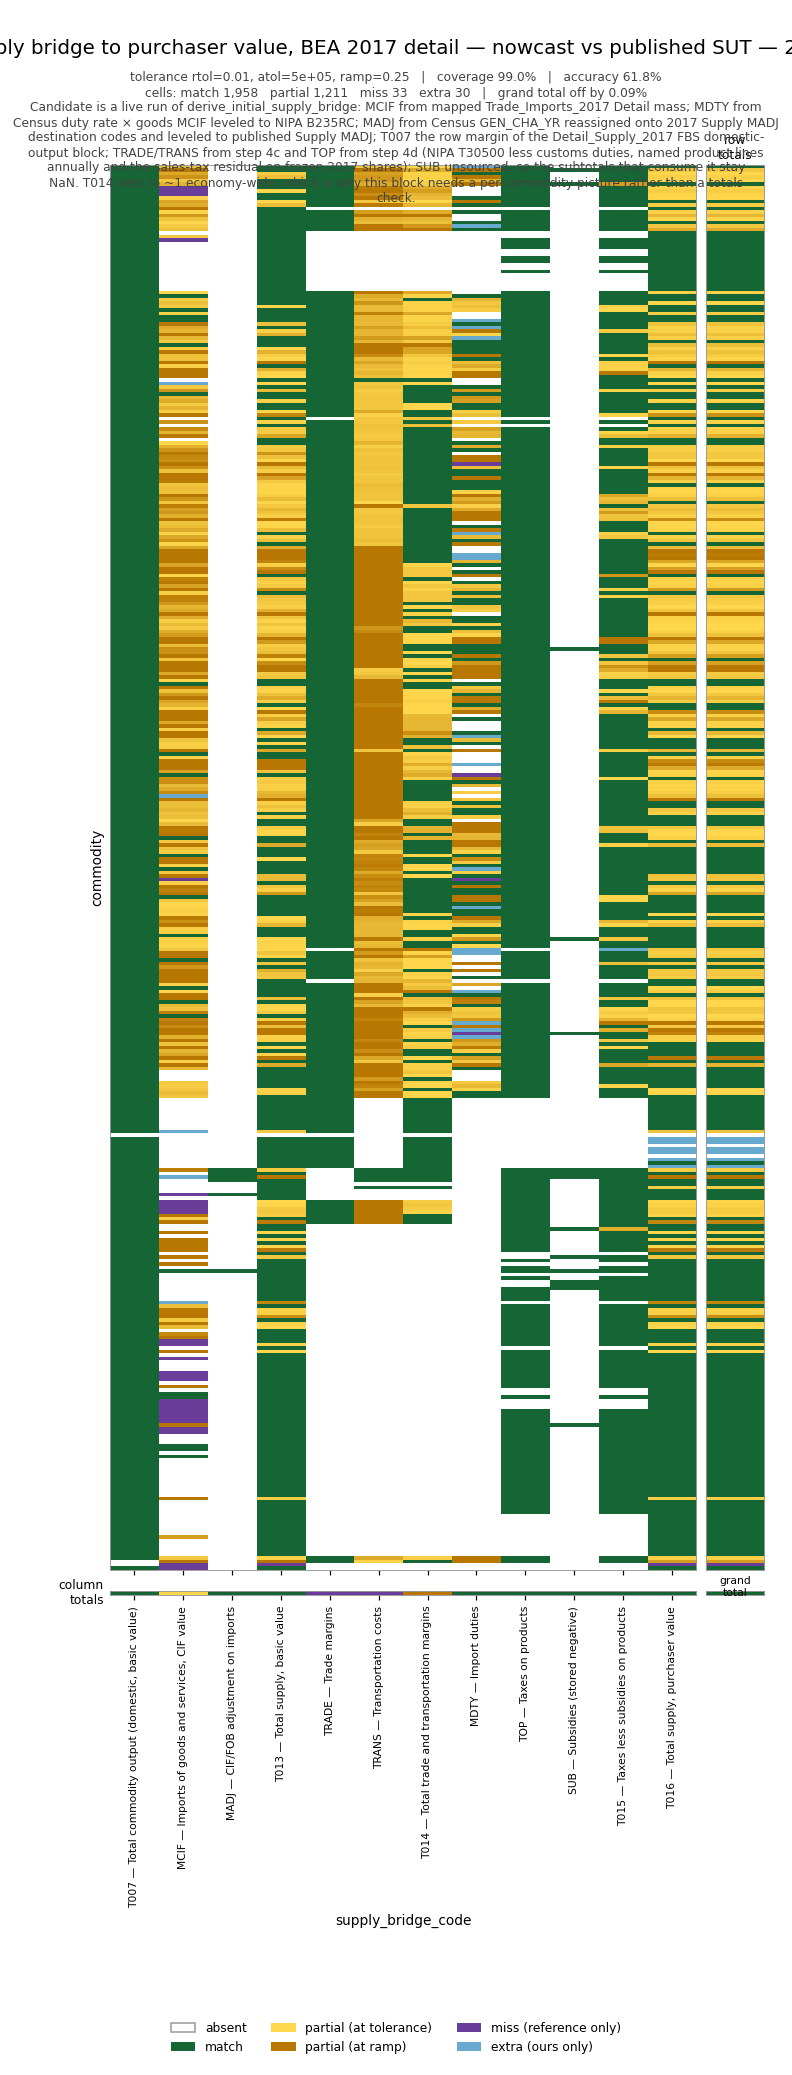
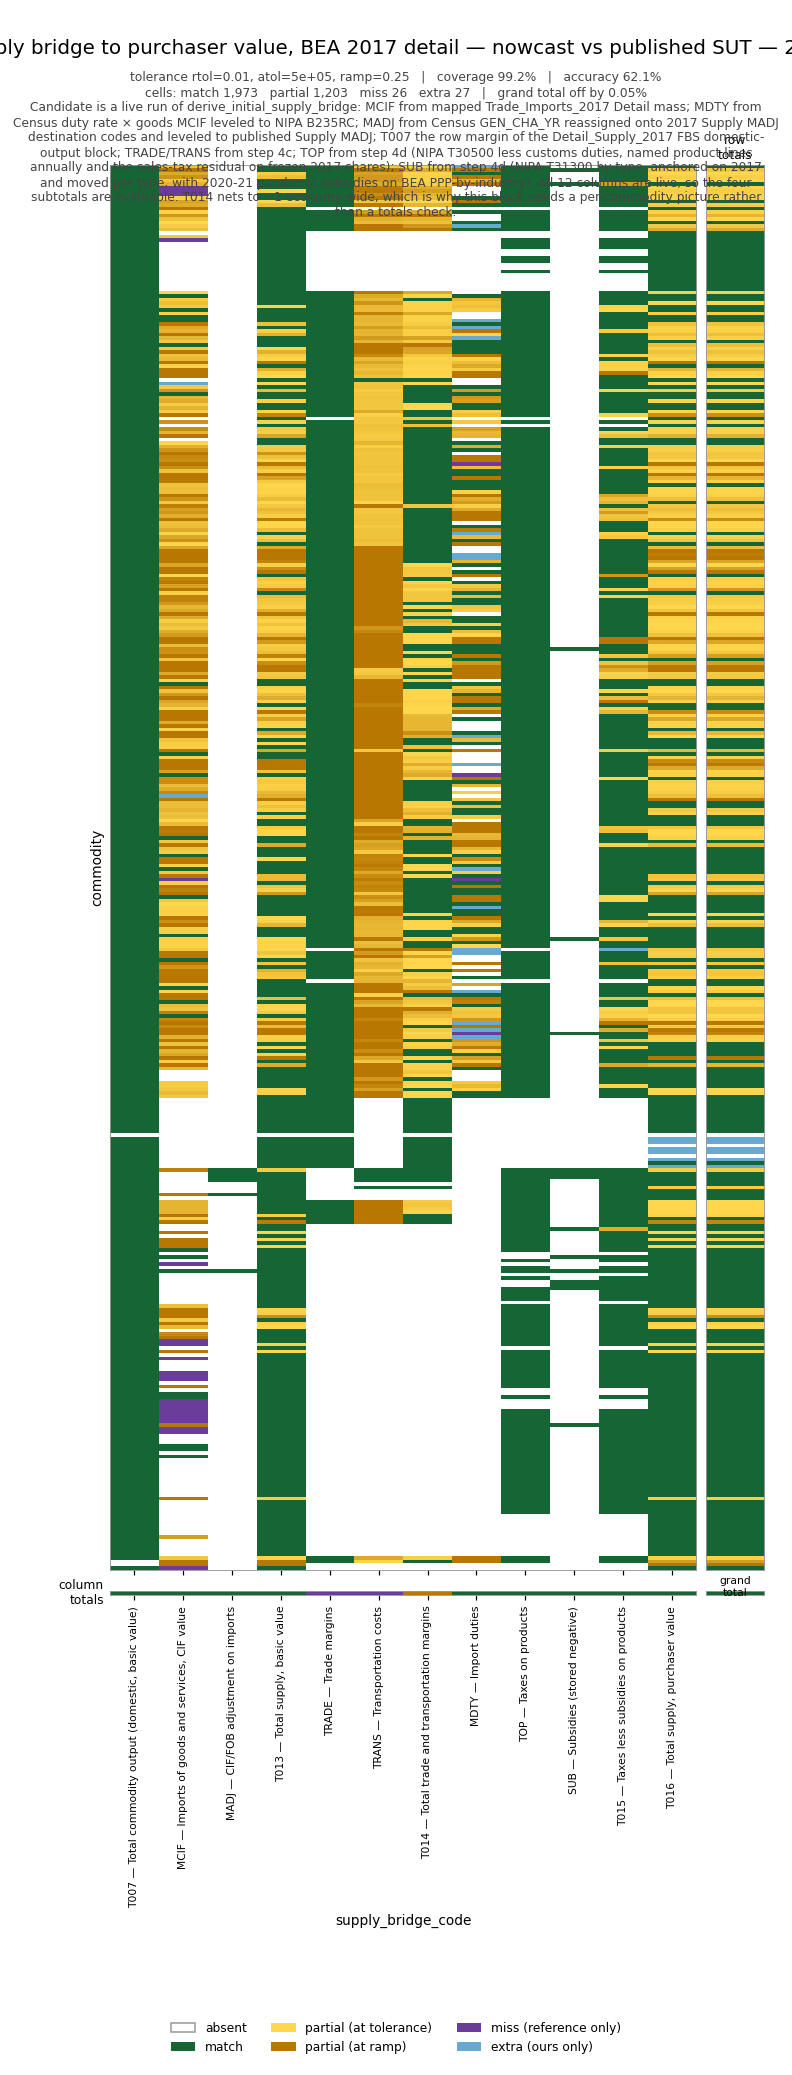
Refresh the plan docs for the merged margins, TOP and trade work
Docs only. The plan and progress report predated #733/#734 and were describing
a Supply bridge that no longer exists.

Supply column table, corrected against a live coverage run rather than from
memory: eight of the twelve columns now run 2017-2024, and only TRADE, TRANS
and therefore T014/T016 stop at 2023. MCIF, MADJ and MDTY were still listed as
"2017 candidate" and have been annual since #730. TRANS was "2017-2022" and now
reaches 2023 from AIES.

TOP's residual is no longer frozen, which the plan asserted in two places. The
purchaser-price base did not have to wait for Step 5 as the plan predicted - it
is assembled from the bridge's own components, and is not circular because TOP
sits in T015 and is excluded from its own base. Recorded with what it buys
(S00402's 174,312 base, the 0.939-1.008 rescale) and what it costs: TOP now
depends on margin coverage, so 2024 holds 2023's shares.

Step 1: F04000 was described as all-zero for 2018-2024 and has been annual since
#730 (2,211bn to 3,139bn). F03000 really is still 2017-only, so the two are now
stated separately instead of together.

Numbers re-measured rather than edited by hand. Steps 1 and 4 re-run, and the
embedded images regenerated with them: supply bridge coverage 99.0% to 99.2%,
accuracy 61.8% to 62.1%, grand total error 0.092% to 0.048%. That improvement is
not Step 4a - it is the Trade FBSs rebuilt on the NAICS-2022 goods Crosswalk,
[…]

diff --git a/bedrock/analysis/nowcasting/plan.md b/bedrock/analysis/nowcasting/plan.md
@@ -253,17 +253,26 @@ shares the aggregator machinery with Decision 3's aggregate constraints.
 
 ### SUT Supply — every column
 
-**Every column now has a candidate.** `MCIF`, `MADJ` and `MDTY` are 2017-only; `T007`, `TRADE`, `TRANS`, `TOP` and `SUB` are multi-year. As of 2026-08-22 the 2017 block scores 99.0% coverage and 0.092% on the grand total, and all four subtotals are evaluable.
+**Every column now has a candidate, and the block is complete and evaluable 2017-2023.** As of
+2026-08-26 **eight of the twelve columns run 2017-2024** — `T007`, `MCIF`, `MADJ`, `T013`, `MDTY`,
+`TOP`, `SUB`, `T015` — and only `TRADE`, `TRANS` and therefore `T014`/`T016` stop at 2023. The 2017
+block scores **99.2% coverage and 0.048% on the grand total** (was 99.0% / 0.092% before the
+2026-08-26 re-run), and all four subtotals are evaluable.
+
+⚠ **2024 is a release date, not an engineering gap.** `timeseries/aies/basic` returns 204 for 2024
+and `aies/miscsector` 400. Truck and pipeline are 79.7% of `TRANS`, so no partial fill is honest —
+rail reaches 2024 on STB and water/air on FAF, but that is 20.3% of the column. There is no second
+source to try; the fix is the next AIES release, not more sourcing work.
 
 | Column | What it is | Candidate source | Status |
 |---|---|---|---|
 | cells / `T007` | Domestic output, commodity × industry, basic value | Nowcast gross industry output (`derived_gross_industry_output.py`) × commodity mix (port from `CalculateIntermediateUseAndCommodityMix.R`, #497) | ❌ **unsourced method** |
-| `MCIF` | Imports, c.i.f. | Census goods **CIF** (`GEN_CIF_YR`) + BEA `IntlServTrade` — §Trade data below | ⏳ **2017 candidate** ([#528](https://github.com/cornerstone-data/bedrock/issues/528) / [#622](https://github.com/cornerstone-data/bedrock/pull/622) [#623](https://github.com/cornerstone-data/bedrock/pull/623) [#642](https://github.com/cornerstone-data/bedrock/pull/642)) — Trade_Imports FBS on `MCIF`; overlay is mapped Detail mass (ITA scale helper unused, #647) |
-| `MADJ` | Import adjustment (c.i.f./f.o.b.) | Census `GEN_CHA_YR` mapped to Detail, reassigned onto 2017 Supply `MADJ` destination codes (signed shares), leveled to published Supply `MADJ` (`madj_detail_usd`) | ⏳ **2017 candidate** — charges + destination reassignment in `derive_initial_supply_bridge` |
-| `MDTY` | Import duties | Effective duty rate from Census `CAL_DUT_YR ÷` customs value (NAICS-6, same endpoint as `MCIF`) × NIPA T30500 customs-duties level — §`MDTY` below | ⏳ **2017 candidate** — `mdty_detail_usd` in `derive_initial_supply_bridge` |
+| `MCIF` | Imports, c.i.f. | Census goods **CIF** (`GEN_CIF_YR`) + BEA `IntlServTrade` — §Trade data below | ⏳ **2017-2024 candidate** ([#528](https://github.com/cornerstone-data/bedrock/issues/528), extended by [#730](https://github.com/cornerstone-data/bedrock/issues/730)) — Trade_Imports FBS on `MCIF`; overlay is mapped Detail mass (ITA scale helper unused, #647). 1:m import rows still split on **frozen 2017 `MCIF`** ([#729](https://github.com/cornerstone-data/bedrock/issues/729)) |
+| `MADJ` | Import adjustment (c.i.f./f.o.b.) | Census `GEN_CHA_YR` mapped to Detail, reassigned onto 2017 Supply `MADJ` destination codes (signed shares), leveled to published Supply `MADJ` (`madj_detail_usd`) | ⏳ **2017-2024 candidate** — charges + destination reassignment in `derive_initial_supply_bridge`. 2017 ties to published; later years carry that year's mapped charge total with the published sign |
+| `MDTY` | Import duties | Effective duty rate from Census `CAL_DUT_YR ÷` customs value (NAICS-6, same endpoint as `MCIF`) × NIPA T30500 customs-duties level — §`MDTY` below | ⏳ **2017-2024 candidate** — `mdty_detail_usd` in `derive_initial_supply_bridge`. ⚠ Calculated Census duty ≠ collected duty in the tariff era, which is why the national sum is leveled to `B235RC` |
 | `TRADE` | Wholesale + retail margins, by commodity | 2017 published column moved by the Census wholesale/retail gross margin (`nowcast_trade_margins.py`, #612/#613) — **not** an aggregate of the nowcast Margins dataset | ⏳ **2017-2023 candidate** — receiving split is the **frozen 2017 mix** |
-| `TRANS` | Transportation margins, by commodity | Per-mode allocation of observed annual freight revenue (`Margins_Transport_<year>` FBS, #611) | ⏳ **2017-2022 candidate** — within-group weight frozen at 2017 (#672) |
-| `TOP` | Taxes on products | NIPA T30500 less customs duties, annually; ten **named NIPA product lines** placed on their own commodities (29.8% of the column) and the sales-tax residual on frozen 2017 shares (`nowcast_product_taxes.py`, #580) | ⏳ **2017-2024 candidate** — total observed to $1M; residual split frozen |
+| `TRANS` | Transportation margins, by commodity | Per-mode allocation of observed annual freight revenue (`nowcast_transport_margins.py`, #611). Truck from AIES `miscsector` `RCPT_MOTR_*_DVAL`; pipeline and water/air from `aies/basic`; rail from STB | ⏳ **2017-2023 candidate** — 2023 now sourced from **AIES**, which continues SAS Table 8 under the same eleven group names, so `Crosswalk_SAS_Group_to_BEA_2017.csv` joins unchanged. Within-group weight still frozen at 2017 (#672). **2024 waits on AIES publishing** |
+| `TOP` | Taxes on products | NIPA T30500 less customs duties, annually; ten **named NIPA product lines** placed on their own commodities (29.8% of the column) and the sales-tax residual on a **purchaser-price base** `T013 + T014` (`nowcast_product_taxes.py`, #580) | ⏳ **2017-2024 candidate** — total observed to $1M. ✅ **The residual is no longer frozen**: sourcing `TRADE`/`TRANS` (#611) gave the other 70% of the column an annual base, so `TOP` now **depends on margin coverage** and 2024 holds 2023's shares rather than reverting to 2017 |
 | `SUB` | Subsidies (stored negative) | NIPA T31300 annually; each commodity anchored on its published 2017 value and moved by its own NIPA **type line**, with 2020-21 `other` on BEA's published PPP-by-industry allocation (`nowcast_subsidies.py`, #580) | ⏳ **2017-2024 candidate** — 2022-24 `other` still on the anchor ([#689](https://github.com/cornerstone-data/bedrock/issues/689)) |
 
 **`TRADE`/`TRANS` and the Margins deliverable sit at two different levels of detail — build the finer
@@ -660,9 +669,12 @@ are 1B because they are not domestic; inventories are 1C.
   across all seventeen NIPA columns in 2017: they receive no final domestic use at all. Zero and
   absent are the same fact, but only one of them survives a join. Hoisted; 2017 is unchanged to the
   cent and 2018–2024 are now (402, 19).
-  ⚠ `F03000` and `F04000` remain **all-zero for 2018–2024** — 1B and 1C are built for 2017 only, as
-  is the `S00900`/`F04000` rest-of-world identity. An annual `Y` is the 17 NIPA domestic columns and
-  two placeholders until those go annual.
+  ⚠ **`F04000` is now annual; `F03000` is not.** As of [#730](https://github.com/cornerstone-data/bedrock/issues/730)
+  exports run **2017-2024** (2,211bn in 2017 to 3,139bn in 2024) from `Trade_Exports_<year>`, and the
+  `S00900`/`F04000` rest-of-world identity holds each year against frozen 2017 Supply `T016`. `F03000`
+  change in private inventories is **still 2017 only** (31.9bn) and all-zero after — 1C has not gone
+  annual ([#529](https://github.com/cornerstone-data/bedrock/issues/529)). So an annual `Y` is the 17
+  NIPA domestic columns plus exports, with inventories the one remaining placeholder.
 - ❌ Review all activity mappings; port the common yaml (#495).
 
 **1B — Trade** (#526, #528). ⏳ `F04000` exports plus the Supply-side import columns from one
@@ -1124,13 +1136,26 @@ gap may be misallocated rather than missing, which changes #606 from sourcing to
       severance) are placed on their own commodities and move at their *own* annual NIPA value.
       They diverge sharply from the column: tobacco 0.33x federal / 0.78x state by 2024 against a
       column at 1.42x, air transport 0.33x in 2020, severance 2.99x in 2022. The two constructions
-      differ by **3.7% of the 2020 column and 5.8% of the 2024 one** — 26,210 on tobacco in 2024,
-      17,602 on `5241XX` in 2020.
-    - **The remaining 70.2% is the frozen 2017 share vector**, deliberately. Two movers were built
-      and both rejected on measurement: a service-side-only `T007` mover drifts to 1.86x against a
-      1.53x control because the goods side absorbs the renormalisation, and an all-commodity `T007`
-      mover cannot move `S00402` (15,699 of 2017 `TOP`, eighth largest) because its `T007` is zero
-      by definition. The right base is purchaser value by commodity, which is Step 5's output.
+      differ by **6.3% of the 2020 column and 7.3% of the 2024 one** — 26,282 on tobacco in 2024,
+      17,791 on `5241XX` in 2020. ⚠ **Those percentages grew when the residual started moving**
+      (they were 3.7% and 5.8% on frozen shares) and they **shift again whenever the Trade FBSs are
+      rebuilt**, because the purchaser-price base carries `MCIF`; the pin is
+      `test_the_two_constructions_diverge_where_the_named_lines_do`.
+    - ✅ **The remaining 70.2% now moves, as of 2026-08-26 (#611).** It sat on the frozen 2017 share
+      vector while two `T007` movers were built and both rejected on measurement — a service-side-only
+      mover drifts to 1.86x against a 1.53x control because the goods side absorbs the
+      renormalisation, and an all-commodity mover cannot move `S00402` (15,699 of 2017 `TOP`, eighth
+      largest) because its `T007` is zero by definition. The right base is purchaser value by
+      commodity, and **it did not have to wait for Step 5**: `T013 + T014` is assembled from the
+      bridge's own *components* (`residual_share_for_year`), which is not circular because `TOP`
+      itself sits in `T015` and is deliberately excluded from the base. That clears both objections —
+      `S00402`'s purchaser base is 174,312 in 2017 because secondhand goods are almost entirely trade
+      margin, so the margin layer reaches exactly what domestic output cannot, and the implied
+      rescale stays within **0.939-1.008** across 2017-2023 rather than drifting off the control.
+      ⚠ **The pandemic years are the check**: 2020 accommodation `721000` falls 7,045 against the
+      frozen vector and air transport roughly halves — the sectors #580 worried the frozen vector
+      would get wrong. ⚠ **2024 holds 2023's shares**, because `TRADE`/`TRANS` stop there; that is a
+      hold, not a measurement, and reverting to 2017 would undo six years of movement in one step.
     - The **producer/trade split** is carried by `top_by_level`, freezing each commodity's 2017
       trade-level share (`Wholesale + Retail − TRADE`, 391,162). ⚠ Frozen per *commodity*, not per
       tax line — carrying it per line would move ~0.9% of the column and needs clipping.
@@ -1772,7 +1797,7 @@ gone.
 | 1 FD block | #504, #523, #526/#527/#528, #529/#530/#531 (built — see §`F03000`), **#660**/**#664**/**#665** (the three `F03000` follow-ons), #547, #606 (`S00300`), **#575** (1d code list), **#576** (1f reconciliation), #621 (2018-2024 PCE), #635 (the swallowed `ValueError`) | — |
 | 2 Value added | #535, #536, #537, #538 | — |
 | 3 Intermediate | #497, #564, **#577** (agriculture), **#578** (government) | — |
-| **4 Supply table** | **#570** (4a), **#579** (4b — *done*), **#571** (4c, parent) split into **#610** (2017 rates — *done*), **#611** (FAF transport chain — *in progress*), **#612** (annual trade levels — *done*), **#613** (apply to nowcast years, derive `TRADE`/`TRANS`), **#614** (validate per commodity), **#615** (deferred NAPCS concordance), **#620** (transport trend validation), **#580** (4d), **#581** (4e) | 4c's five sub-issues were filed after the first pass and are now on the board |
+| **4 Supply table** | **#570** (4a), **#579** (4b — *done*), **#571** (4c, parent) split into **#610** (2017 rates — *done*), **#611** (FAF transport chain — *done through 2023; 2024 waits on AIES*), **#612** (annual trade levels — *done*), **#613** (apply to nowcast years, derive `TRADE`/`TRANS`), **#614** (validate per commodity), **#615** (deferred NAPCS concordance), **#620** (transport trend validation), **#580** (4d), **#581** (4e) | 4c's five sub-issues were filed after the first pass and are now on the board |
 | 5 RAS | **#588** (balancer, parent — `gras_balance`, `engine`, and the soft mechanism landed; WEIGHTS uncalibrated), **#653** / **#654** / **#591** (mask/target scaffolding — **landed** in [#659](https://github.com/cornerstone-data/bedrock/pull/659)), **#655** (gross output at basic prices) | ~~#589~~ (load_suts_from_r) and ~~#590~~ (check_balances) **closed not planned, 2026-08-09** — neither port is needed |
 | 6 SUT→MUT | USEEIO #4 (6b), **#582** (6a), **#583** (6c), **#584** (6d), **#585** (2017 replay) | 6b is tracked in USEEIO, not bedrock |
 | 7 Redefinitions | **#572** | — |
@@ -1811,7 +1836,12 @@ replaced by #572. **Every item on the board is now a trackable issue.**
   [`margins_estimation_plan.md`](margins_estimation_plan.md)):
 
   - `TRANS` (#611) allocates each mode's **observed annual freight revenue** over its receiving
-    commodities. Nothing in it touches the nowcast base.
+    commodities. Nothing in it touches the nowcast base. ✅ **Complete 2017-2023 as of 2026-08-26**:
+    2023 is sourced from **AIES**, which continues SAS Table 8 under the same eleven group names, so
+    `Crosswalk_SAS_Group_to_BEA_2017.csv` joins unchanged — truck from `aies/miscsector`
+    (`RCPT_MOTR_*_DVAL`), pipeline and water/air freight revenue from `aies/basic` at `TYPOP 00`.
+    ⚠ `mode_freight_revenue` is a **third** SAS consumer beyond the two allocators, easy to miss,
+    and the column raises without it. **2024 waits on AIES publishing**, not on engineering.
   - `TRADE` (#612/#613) is **anchor-and-move**: the published 2017 column rescaled by the Census
     wholesale and retail gross margin. The *level* moves annually and so does the kind-of-business
     split; the **receiving split — which commodities get the margin — is the frozen 2017 product

diff --git a/bedrock/analysis/nowcasting/progress_report.md b/bedrock/analysis/nowcasting/progress_report.md
@@ -13,8 +13,9 @@ uv run python -m bedrock.analysis.nowcasting.plots \
     --dpi 110 --out-dir bedrock/analysis/nowcasting/images --no-report   # the copies below
 ```
 
-**Snapshot date:** 2026-08-24 for Step 3; **Steps 1 and 4 are unchanged from the
-2026-08-22 run** and were not re-run for this edit.
+**Snapshot date:** 2026-08-26 for Steps 1 and 4, re-run after the AIES-sourced
+`TRANS` and `TOP`'s purchaser-price residual (#611/#580) and the NAICS-2022
+goods Crosswalk (#734); **Step 3 is unchanged from the 2026-08-24 run**.
 
 **Step 3 has landed ([#497](https://github.com/cornerstone-data/bedrock/issues/497)),** so the 402 × 402 Use interior is in
 the report for the first time. Step 1 is a live `derive_initial_Y_pur`
@@ -30,10 +31,10 @@ evaluable rather than NaN, and the block can finally be scored as a whole.
 
 | block | step | shape | reference populates | reference total | candidate | coverage | accuracy |
 |---|---|---|---:|---:|---|---:|---:|
-| `use_fd_detail_sut` | 1 — final demand | 402 × 19 | 1,253 cells | $22.24T | live | **95.5%** | **55.1%** |
+| `use_fd_detail_sut` | 1 — final demand | 402 × 19 | 1,253 cells | $22.24T | live | **96.0%** | **54.6%** |
 | `use_va_detail_sut` | 2 — value added | 3 × 402 | 1,189 cells | $18.92T | *none yet* | — | — |
 | `use_intermediate_detail_sut` | 3 — intermediate interior | 402 × 402 | 44,281 cells | $14.86T | live | **100.0%** | **100.0%** |
-| `supply_bridge_detail_sut` | 4 — supply bridge | 402 × 12 | 3,202 cells | $111.28T | live (all 12 columns) | **99.0%** | **61.8%** |
+| `supply_bridge_detail_sut` | 4 — supply bridge | 402 × 12 | 3,202 cells | $111.28T | live (all 12 columns) | **99.2%** | **62.1%** |
 
 **coverage** = of the cells the reference populates, how many we populate.
 **accuracy** = of the cells we populate, how many land within tolerance.
@@ -256,6 +257,28 @@ finding** — it fits **negative** at 2023 (−0.25) and 2024 (−0.50). θ is
 | reference grand total | $111.28T |
 | grand total error | **0.092%** |
 
+### What moved since 2026-08-24
+
+Coverage 99.0% → **99.2%**, accuracy 61.8% → **62.1%**, grand total error
+0.092% → **0.048%**, and `T013`/`T016` lost their last whole-column miss. None
+of that is Step 4a: it is the **Trade FBSs rebuilt on the NAICS-2022 goods
+Crosswalk** ([#734](https://github.com/cornerstone-data/bedrock/issues/734)),
+which moved `MCIF` (misses 27 → 22, coverage 90.9% → 92.6%) and carried through
+`T013` and `T016`.
+
+Two method changes landed with it and neither shows in the 2017 scores, because
+both are replays in the benchmark year:
+
+- **`TRANS` reaches 2023** ([#611](https://github.com/cornerstone-data/bedrock/issues/611)),
+  sourced from **AIES**, which continues SAS Table 8 under the same eleven group
+  names. ⚠ 2024 is a *release date*, not an engineering gap — truck and pipeline
+  are 79.7% of the column and the AIES 2024 endpoints return 204/400.
+- **`TOP`'s residual stopped being frozen** ([#580](https://github.com/cornerstone-data/bedrock/issues/580)).
+  The other 70.2% of the column now moves on a purchaser-price base `T013 + T014`
+  rather than on 2017 shares. ⚠ **So `TOP` now depends on margin coverage**, and
+  2024 holds 2023's shares. The two constructions differ by 6.3% of the 2020
+  column and 7.3% of the 2024 one.
+
 ### What moved since 2026-08-21
 
 Coverage 65.0% → **99.0%**, accuracy 54.1% → **61.8%**, whole-column misses
@@ -266,7 +289,8 @@ sourced to complete. Two columns landed, and with them the four subtotals:
   this branch) — NIPA T30500 taxes on products less customs duties for the
   annual total, ten named NIPA product lines placed on their own commodities
   (29.8% of the column), and the general-sales-tax residual on frozen 2017
-  shares. **2017-2024.**
+  shares. **2017-2024.** (⚠ The residual stopped being frozen on 2026-08-26 —
+  see the entry above.)
 - **`SUB` is sourced** (same issue) — NIPA T31300 for the total, each commodity
   anchored on its published 2017 value and moved by its own NIPA type line.
   ⚠ 2020 and 2021 replace the `other` type — 84% of the column in those years —
@@ -289,17 +313,17 @@ annual measurement instead of on the column's growth rate: for `TOP` that is
 | code | absent | match | partial | miss | extra | coverage | accuracy |
 |---|---:|---:|---:|---:|---:|---:|---:|
 | `T007` | 3 | **399** | 0 | 0 | 0 | **100.0%** | **100.0%** |
-| `MCIF` | 99 | 24 | 247 | 27 | 5 | 90.9% | 8.7% |
+| `MCIF` | 102 | 26 | 250 | 22 | 2 | 92.6% | 9.4% |
 | `MADJ` | 396 | **6** | 0 | 0 | 0 | **100.0%** | **100.0%** |
-| `T013` | 1 | 216 | 184 | 1 | 0 | 99.8% | 54.0% |
+| `T013` | 1 | 225 | 176 | 0 | 0 | **100.0%** | 56.1% |
 | `TRADE` | 128 | **274** | 0 | 0 | 0 | **100.0%** | **100.0%** |
 | `TRANS` | 139 | 6 | 257 | 0 | 0 | **100.0%** | 2.3% |
 | `T014` | 120 | 132 | 150 | 0 | 0 | **100.0%** | 46.8% |
-| `MDTY` | 194 | 68 | 118 | 4 | 18 | 97.9% | 33.3% |
+| `MDTY` | 194 | 67 | 119 | 4 | 18 | 97.9% | 32.8% |
 | `TOP` | 63 | **339** | 0 | 0 | 0 | **100.0%** | **100.0%** |
 | `SUB` | 387 | **15** | 0 | 0 | 0 | **100.0%** | **100.0%** |
 | `T015` | 59 | 279 | 63 | 0 | 1 | **100.0%** | 81.3% |
-| `T016` | 3 | 200 | 192 | 1 | 6 | 99.7% | 50.3% |
+| `T016` | 3 | 205 | 188 | 0 | 6 | **100.0%** | 51.4% |
 
 **`T007`, `TRADE` and `TOP` are exact.** 399 of 399, 274 of 274 and 339 of 339
 populated cells land inside tolerance — not "close", but every cell. `T007`'s

diff --git a/bedrock/transform/trade/README.md b/bedrock/transform/trade/README.md
@@ -65,8 +65,28 @@ Scored against the assembled nowcast columns (`use_fd_detail_sut` F04000 / `supp
 
 | direction | National % vs SUT | Pearson all / non-`S00*` | Spearman all / non-`S00*` | Top-20 Jaccard all / non-`S00*` | n_miss |
 | --- | --- | --- | --- | --- | --- |
+| F040 exports | +6.16% | 0.92 / 0.87 | 0.87 / 0.86 | 0.60 / 0.60 | 43 |
+| MCIF imports | +0.68% | 0.77 / 0.85 | 0.94 / 0.94 | 0.74 / 0.82 | 22 |
+
+⚠ **Re-scored 2026-08-26, and exports moved in two directions at once.** Mapping
+the NAICS-2022 Census leaves onto the goods Crosswalk (#734) and extending the
+FBS span (#730) roughly **halved the export national error, +12.20% to +6.16%**,
+while the rank statistics *fell* — Pearson 0.96 → 0.92, top-20 Jaccard 0.67 →
+0.60, and `n_miss` 39 → 43. Imports improved on level (+1.14% → +0.68%) with the
+same `n_miss` movement, 18 → 22. Read the pair together rather than either alone:
+the extra mass lands closer to the published national total but is distributed
+across more Detail codes, so more leaves end up populated and a few of the
+previous top-20 hits drop out. The prior row is kept below for comparison.
+
+| prior (2026-08-14) | National % vs SUT | Pearson all / non-`S00*` | Spearman all / non-`S00*` | Top-20 Jaccard all / non-`S00*` | n_miss |
+| --- | --- | --- | --- | --- | --- |
 | F040 exports | +12.20% | 0.96 / 0.94 | 0.90 / 0.90 | 0.67 / 0.67 | 39 |
 | MCIF imports | +1.14% | 0.77 / 0.85 | 0.95 / 0.95 | 0.74 / 0.82 | 18 |
+
+⚠ **The stored per-commodity baseline was NOT refreshed.** `score_2017_trade_detail`
+reports a handful of status changes against it (`311810` and `1121A0` exports,
+`112120`/`112300`/`311810` imports). They follow from the Crosswalk change and are
+expected, but `--update-baseline` is a deliberate call and has not been made.
 
 ## Residual / specials
 
